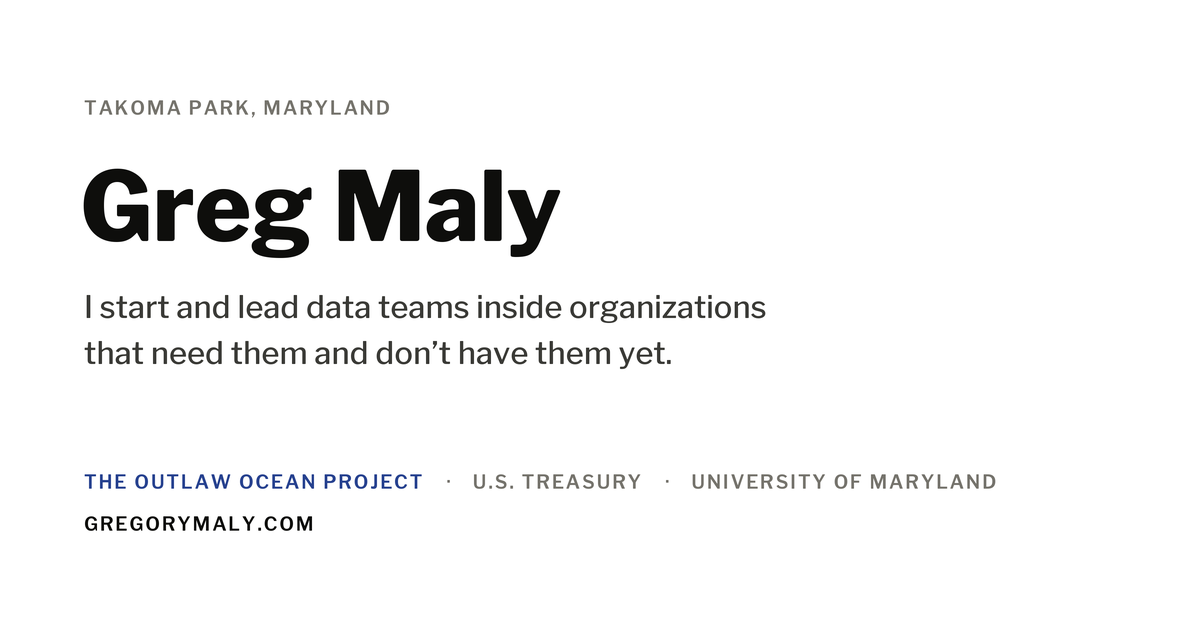
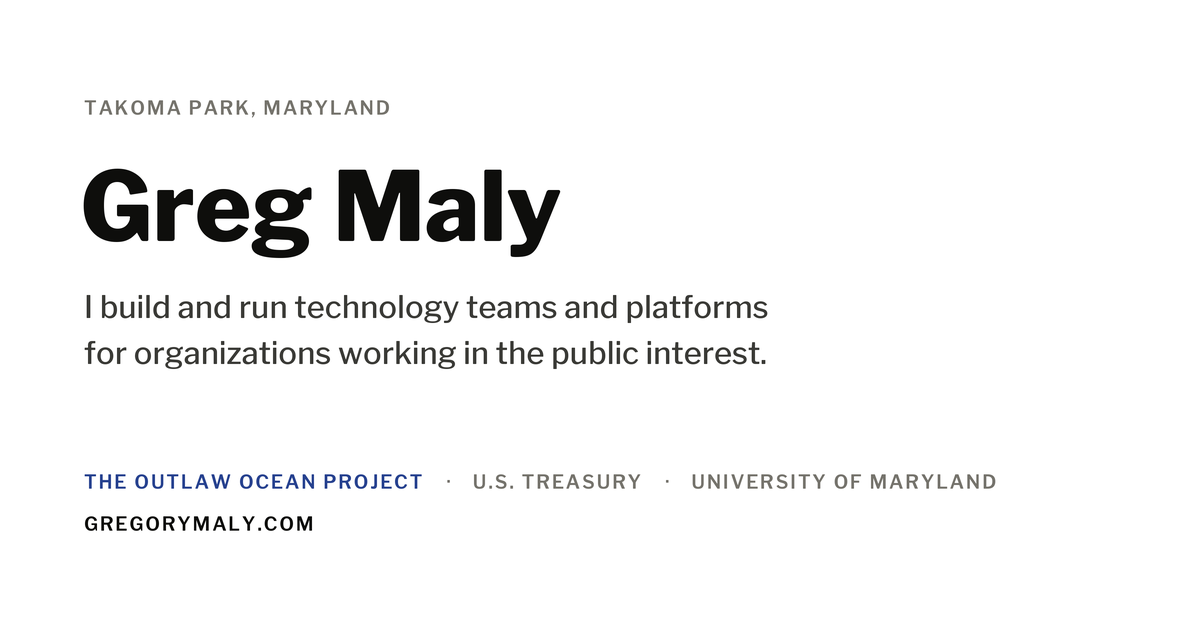
Reposition toward technology leadership
The page presented a data leader. Lede is now "I build and run
technology teams and platforms for organizations working in the public
interest," and the opening paragraph leads on sector range rather than
on having started three functions from nothing - the founding framing
argued against inheriting an existing one.

Add The Technology Policy Data Project under Now and the Maryland
Responsible AI Council to Elsewhere. Treasury reads as technology
advisory rather than data science methods. Drop the closing clause
about picking up requirements: the only self-appraisal on a page that
otherwise states facts.

Title, meta, and schema follow the new lede; re-render the social card,
which had the old sentence baked into the pixels.

Changed region(s): [[0.0617, 0.4524, 0.6475, 0.5127], [0.0617, 0.5429, 0.6475, 0.6032]]

diff --git a/index.html b/index.html
@@ -3,19 +3,19 @@
 <head>
   <meta charset="UTF-8">
   <meta name="viewport" content="width=device-width, initial-scale=1.0">
-  <title>Greg Maly &middot; Data Science Leadership, Washington DC</title>
-  <meta name="description" content="Greg Maly starts and leads data teams. AI &amp; Data Science Editor at The Outlaw Ocean Project, advisor to the U.S. Treasury, adjunct faculty at the University of Maryland.">
+  <title>Greg Maly &middot; Data and Technology Leadership, Washington DC</title>
+  <meta name="description" content="Greg Maly builds and runs technology teams and platforms for organizations working in the public interest — The Outlaw Ocean Project, the U.S. Treasury, the University of Maryland.">
   <meta name="author" content="Greg Maly">
   <link rel="canonical" href="https://www.gregorymaly.com/">
-  <meta property="og:title" content="Greg Maly &middot; Data Science Leadership, Washington DC">
-  <meta property="og:description" content="I start and lead data teams inside organizations that need them and don't have them yet.">
+  <meta property="og:title" content="Greg Maly &middot; Data and Technology Leadership, Washington DC">
+  <meta property="og:description" content="I build and run technology teams and platforms for organizations working in the public interest.">
   <meta property="og:type" content="profile">
   <meta property="og:url" content="https://www.gregorymaly.com/">
   <meta property="og:site_name" content="Greg Maly">
   <meta property="og:image" content="https://www.gregorymaly.com/icons/og-card.png">
   <meta property="og:image:width" content="1200">
   <meta property="og:image:height" content="630">
-  <meta property="og:image:alt" content="Greg Maly — I start and lead data teams inside organizations that need them and don't have them yet.">
+  <meta property="og:image:alt" content="Greg Maly — I build and run technology teams and platforms for organizations working in the public interest.">
   <meta property="profile:first_name" content="Greg">
   <meta property="profile:last_name" content="Maly">
   <meta name="twitter:card" content="summary_large_image">
@@ -237,8 +237,9 @@
   ],
   "url": "https://www.gregorymaly.com/",
   "image": "https://www.gregorymaly.com/icons/og-card.png",
-  "description": "I start and lead data teams inside organizations that need them and don't have them yet.",
+  "description": "I build and run technology teams and platforms for organizations working in the public interest.",
   "jobTitle": [
+    "Founder",
     "AI & Data Science Editor",
     "Advisor",
     "Adjunct Faculty"
@@ -250,6 +251,10 @@
     "addressCountry": "US"
   },
   "worksFor": [
+    {
+      "@type": "Organization",
+      "name": "The Technology Policy Data Project"
+    },
     {
       "@type": "Organization",
       "name": "The Outlaw Ocean Project",
@@ -264,6 +269,10 @@
       "name": "University of Maryland, College of Information"
     }
   ],
+  "memberOf": {
+    "@type": "Organization",
+    "name": "Maryland Responsible AI Council"
+  },
   "alumniOf": [
     {
       "@type": "CollegeOrUniversity",
@@ -301,8 +310,8 @@
     <header class="col-rail">
       <p class="dateline">Takoma Park, Maryland</p>
       <h1 class="name">Greg Maly</h1>
-      <p class="lede">I start and lead data teams inside organizations that need them and don&rsquo;t have them yet.</p>
-      <p class="intro">Three times I have built a data function where none existed: as one of the first members of the Office of Advanced Analytics at the State Department&rsquo;s Bureau of Conflict and Stabilization Operations, as founder of the Data Science and Digital Products team at DAI Global, and as co-founder of Exchange.Design. The work has been the same across all of them, in conflict analysis, global health, development, and ocean crime: take evidence that is scattered and contested and turn it into something a policymaker, an editor, or a court can rely on. My background runs across policy, diplomacy, and technology, so I pick up requirements quickly and can explain the work to the people paying for it.</p>
+      <p class="lede">I build and run technology teams and platforms for organizations working in the public interest.</p>
+      <p class="intro">I do that for people solving hard problems in government, civil society, academia, and the private sector. The work has been the same across all of them, in conflict analysis, global health, development, and ocean crime: take evidence that is scattered and contested and turn it into something a policymaker, an editor, or a court can rely on. My background runs across policy, diplomacy, and technology.</p>
     </header>
 
     <div class="col-main">
@@ -318,9 +327,15 @@
           </article>
 
           <article>
+            <h3 class="entry-title">The Technology Policy Data Project</h3>
+            <p class="entry-role">Founder</p>
+            <p class="entry-body">A research platform connecting incidents where a person was reportedly harmed through interaction with a digital product to the legislation and litigation that bears on them, with ties built across five dimensions. Includes a bill comparison tool covering more than 14,000 bills from all 50 states, so a drafter can enter their own text and see what already exists.</p>
+          </article>
+
+          <article>
             <h3 class="entry-title">U.S. Department of the Treasury</h3>
             <p class="entry-role">Advisor, Office of Technical Assistance</p>
-            <p class="entry-body">Data science and data engineering methods, with international counterparts.</p>
+            <p class="entry-body">Technology advisory for the department, and implementation with international counterparts.</p>
           </article>
 
           <article>
@@ -359,7 +374,7 @@
 
       <section>
         <h2 class="section-label">Elsewhere</h2>
-        <p class="prose">Talks at Google New York, the World Bank, and PeaceCon. Writing at <a href="https://gregmaly.substack.com/">gregmaly.substack.com</a>. MA, Josef Korbel School, University of Denver. BA in Policy, Ethics &amp; Conflict, a self-designed major, St. Mary&rsquo;s College of Maryland.</p>
+        <p class="prose">Member of the Maryland Responsible AI Council. Talks at Google New York, the World Bank, and PeaceCon. Writing at <a href="https://gregmaly.substack.com/">gregmaly.substack.com</a>. MA, Josef Korbel School, University of Denver. BA in Policy, Ethics &amp; Conflict, a self-designed major, St. Mary&rsquo;s College of Maryland.</p>
       </section>
 
     </div>
